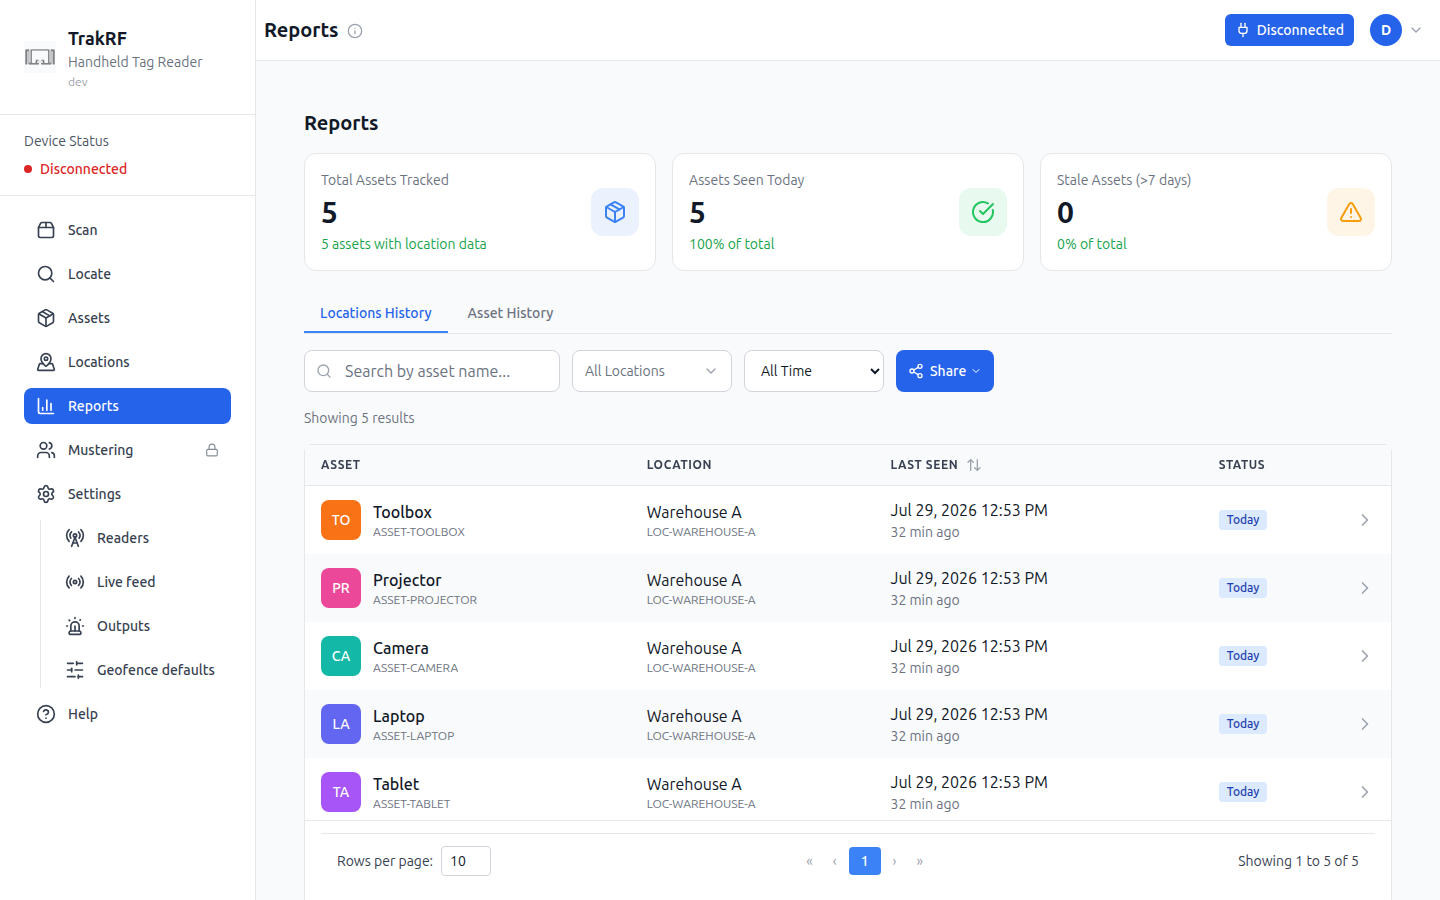
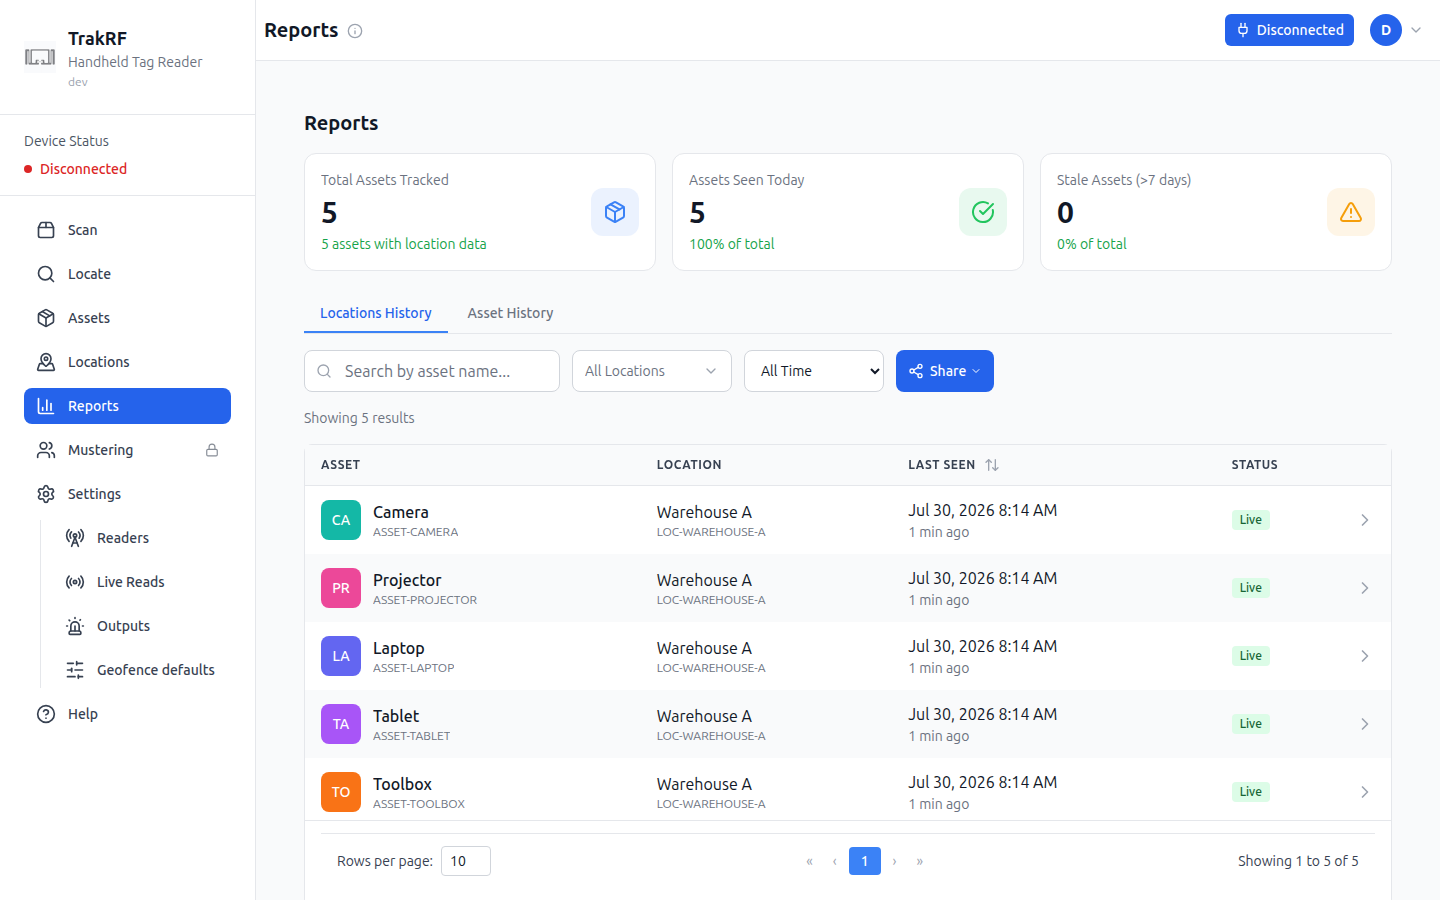
docs: recapture every app screenshot against the post-#545 UI
29 images recaptured from platform running locally at current main
(trakrf/platform 2af6a66), which now contains #543/#544/#545.

The nav rename drove far more of this than the page-level changes did: the
Settings sub-group is expanded in *every* desktop capture, so "Live feed" was
baked into all 11 app-tour desktop images and the user-guide desktop set too.
Mobile collapses the sidebar behind a hamburger, so only the six mobile pages
whose own content changed were reshot; assets/locations/reports/scan/geofence
mobile are untouched and were each checked to confirm no sidebar is visible.

Viewports preserved per file: Scan screens 1680x900, other desktop 1440x900,
mobile 390x844.

Fixture reproduced faithfully — same 8 assets, 5 locations, and the same five
assets at Warehouse A as the previous pass.

Corrections to prose that the recapture exposed, all pre-existing:

- the create-asset modal has no Location field, and there is no "Unassigned"
  filter. Both were documented as steps a user should take. The field was
  deliberately removed (AssetForm.tsx:24, TRA-799) because location is fact data
  derived from scans. Replaced with a note explaining why the column is blank.
- reports-populated alt text described "two assets at Bay 7 Shelf 1"; the image
  it labelled has always shown five at Warehouse A
- locate-searching alt text said -31 dBm; the image it labelled showed -41
- scanned-tag counts and battery percentage now match the actual captures
[…]

diff --git a/docs/user-guide/asset-management.md b/docs/user-guide/asset-management.md
@@ -38,16 +38,17 @@ Assets are the records TrakRF checks scans against. Each asset has at least one 
 2. Click **Create Asset** (in the empty-state card) or the floating **+** button.
 3. Fill in the **Create New Asset** modal:
 
-   ![Create New Asset modal — Asset ID, Name, Description, Location, Active, Valid From/To, RFID Tags](/img/user-guide/create-asset-modal.png)
+   ![Create New Asset modal — Asset ID, Name, Description, Active, Valid From/To, RFID Tags](/img/user-guide/create-asset-modal.png)
    - **Asset ID** — leave blank to auto-generate as `ASSET-XXXX`, or type your own (e.g. a part number).
    - **Name** — required. This is what you'll see in scan results and reports.
    - **Description** — optional free text.
-   - **Location** — pick the one you created in step 1. Leave as "No location assigned" if you want it to appear under the **Unassigned** filter.
    - **Active** — checked by default. Uncheck to hide the asset from live scan comparisons without deleting it.
    - **Valid From / Valid To** — defaults to today / blank. Use these if the asset is only in circulation for a known window.
    - **RFID Tags** — click **Add Tag** and paste or type the tag's EPC (hex string). You can attach more than one tag to the same asset.
 
 4. Click **Create Asset**.
+
+There is no **Location** field on this form. An asset's location is derived from where it was last scanned, not set by hand, so the **Location** column stays blank until a saved scan places it.
 
 The asset now appears in the list. The footer cards (**Total Assets**, **Active**, **Inactive**) update immediately. After a few assets, the list looks like this:
 
@@ -63,14 +64,14 @@ With an asset registered and a reader paired (see [Reader Setup](./reader-setup)
 
 1. Open **Scan** from the left nav.
 
-   ![Scan page ready to scan — device connected (75%), empty Scanned list, full toolbar, empty footer stats](/img/user-guide/scan-connected-idle.png)
+   ![Scan page ready to scan — device connected (90%), empty Scanned list, full toolbar, empty footer stats](/img/user-guide/scan-connected-idle.png)
 
 2. Confirm the device-status chip in the top-right reads **Connected**, not **Disconnected**.
    - On a supported browser with no paired reader, the banner reads "Connect your device to start scanning" and the **Connect Device** button is live.
    - On an unsupported browser (no Web BLE), the banner lists the supported browsers instead and **Connect Device** is disabled — see [Reader Setup: browser support](./reader-setup#browser-support).
 3. Pick a scan mode next to the **Scanned** counter. **RFID** sweeps every tag in range on each pass; **Barcode** reads a single code at a time — whichever the reader is aimed at.
 
-   ![Scan toolbar in RFID mode with RFID selected and 13 tags scanned — recognized assets such as Toolbox and Camera listed by name alongside raw EPCs, each with signal strength and read count](/img/user-guide/scan-mode-rfid.png)
+   ![Scan toolbar in RFID mode with RFID selected and 16 tags scanned — recognized assets such as Toolbox and Camera listed by name alongside raw EPCs, each with signal strength and read count](/img/user-guide/scan-mode-rfid.png)
 
    ![Scan toolbar in Barcode mode, idle — Barcode selected, empty Scanned list, full toolbar including Save](/img/user-guide/scan-mode-barcode.png)
 
@@ -79,7 +80,7 @@ With an asset registered and a reader paired (see [Reader Setup](./reader-setup)
    - **Scans** — unique tags seen this session.
    - **Assets** — of those, how many match a registered asset.
 
-     ![Scan mid-scan — 13 tags in the results list, a mix of recognized assets and raw EPCs, per-row signal and count](/img/user-guide/scan-scanning.png)
+     ![Scan mid-scan — 16 tags in the results list, a mix of recognized assets and raw EPCs, per-row signal and count](/img/user-guide/scan-scanning.png)
 
 6. Release the trigger when you've covered the area. The list stays on screen; you can resume by pressing the trigger again.
 7. Use the top toolbar as needed:
@@ -98,7 +99,7 @@ Saving is what promotes a scan from "live on my screen" to "part of the audit tr
 
 1. Open **Reports** from the left nav.
 
-   ![Reports page with two assets in Locations History at Bay 7 Shelf 1, both seen today](/img/user-guide/reports-populated.png)
+   ![Reports page with five assets in Locations History at Warehouse A, all seen today](/img/user-guide/reports-populated.png)
 
 2. The top stat cards show **Total Assets Tracked**, **Assets Seen Today**, and **Stale Assets (> 7 days)** — a quick-read summary of your catalog's recency.
 3. Switch between **Locations History** (which locations saw which assets) and **Asset History** (per-asset timeline).
@@ -112,7 +113,7 @@ Saving is what promotes a scan from "live on my screen" to "part of the audit tr
 
 **Scan** answers "what's here?" **Locate** answers "where is this one?" Paste or type the EPC of the tag you're hunting for (or jump over from an asset's row action) and TrakRF turns the reader into a metal detector: a signal-strength gauge, peak/average stats, and an audio-feedback option whose pitch **and** beep rate both climb as you close the distance.
 
-![Locate screen searching for EPC 10019 — signal-strength gauge reading -31 dBm, stats panel, audio feedback on](/img/user-guide/locate-searching.png)
+![Locate screen searching for EPC 10019 — signal-strength gauge reading -35 dBm, stats panel, audio feedback on](/img/user-guide/locate-searching.png)
 
 Use it for single-item retrieval after a scan has flagged something as missing or misplaced.
 

diff --git a/docs/app-tour/authoring.md b/docs/app-tour/authoring.md
@@ -76,9 +76,21 @@ the entire reason captures happen locally — if a banner appears, something is 
 ## The fixture: the "TrakRF Docs" org
 
 1. Sign up through the local UI at `http://localhost:5173/#signup`, using an organization name
-   of exactly **`TrakRF Docs`** — the seed script matches on that string.
+   of exactly **`TrakRF Docs`** — the seed script matches on that string. **Company Website** and
+   **Phone** are required by client-side validation; leaving them blank silently fails the submit
+   with inline errors and no request is sent.
 2. Run `scripts/seed-docs-org.sql` against the local database (`just database psql <
    scripts/seed-docs-org.sql`, or the equivalent `docker exec` invocation for your local stack).
+
+   Use `just database psql` if you can. `pgcrypto` is installed **into the `trakrf` schema**, so
+   the id-generation functions the seed calls need `trakrf` on the `search_path`. A bare
+   `docker exec … psql` connects with the default search path and dies on
+   `function hmac(bytea, bytea, unknown) does not exist`; pass
+   `PGOPTIONS='-c search_path=trakrf,public'` if you go that route.
+3. **Clear the browser's local storage and reload.** Signing up before seeding means the app has
+   already cached an empty asset list, and the store's TTL is an hour — so a freshly seeded org
+   renders as "No assets yet" until the cache is dropped. Keep `auth-storage` if you don't want to
+   log in again.
 
 The script seeds 8 assets and 5 locations, grants the `geofence` capability so the Outputs and
 Geofence defaults pages render real UI instead of a locked upsell page, and creates a second,
@@ -133,10 +145,47 @@ lists data, check the visible count against the fixture: **8 assets, 5 locations
 numbers are doubled, temporarily remove `React.StrictMode` from
 `platform/frontend/src/main.tsx`, recapture, and restore it afterwards.
 
+**It is intermittent — do the check even if a previous pass looked clean.** The underlying defect
+is still open, but it did not reproduce at all during the second capture pass. Seeing correct
+counts tells you nothing about the next page you load.
+
+### Captures that need a saved scan first
+
+Four images show data that only exists after a scan has been **saved** against a location, and
+they will silently capture as empty if taken too early:
+`app-tour/assets-desktop.png`, `user-guide/assets-populated.png`,
+`app-tour/reports-desktop.png`, and `user-guide/reports-populated.png`.
+
+The sequence that produces them:
+
+1. Connect the reader, scan on the **Scan** screen, then **Stop**.
+2. Click **Select** next to "No location tag detected" and pick **Warehouse A**.
+3. Click **Save**.
+4. **Refresh the continuous aggregate.** `trakrf.asset_scan_latest` is a TimescaleDB continuous
+   aggregate, so the Assets **Location** column and every Reports figure stay empty until it
+   materialises:
+
+   ```sql
+   CALL refresh_continuous_aggregate('trakrf.asset_scan_latest', NULL, NULL);
+   ```
+
+5. Reload, then **visit Locations once** before capturing Assets. The Location column renders
+   whatever the location-metadata cache holds — with a cold cache it prints raw external keys
+   (`LOC-WAREHOUSE-A`) instead of display names (`Warehouse A`).
+
+Expect the scanned-tag count to differ from whatever the prose currently claims. The reader picks
+up ambient tags beyond the five bench ones, so the total varies per session — update the alt text
+to match the capture rather than re-shooting for a specific number.
+
 ### Locate has a Start button
 
 Locate exposes an on-screen **Start** button once a reader is connected — it is not
 trigger-only. Use it to drive a capture rather than assuming a hardware trigger pull is required.
+
+**The first Start click usually fails.** It logs `Cannot start scanning from state Busy` and
+leaves Status on **Idle** with the gauge reading "No signal" — while the Statistics panel fills in
+live RSSI, which makes it look like it worked. Click **Start** a second time; Status then reads
+**Searching** and the gauge lights up. Confirm Status says "Searching" before you capture.
 
 ### Which capture path was used
 
